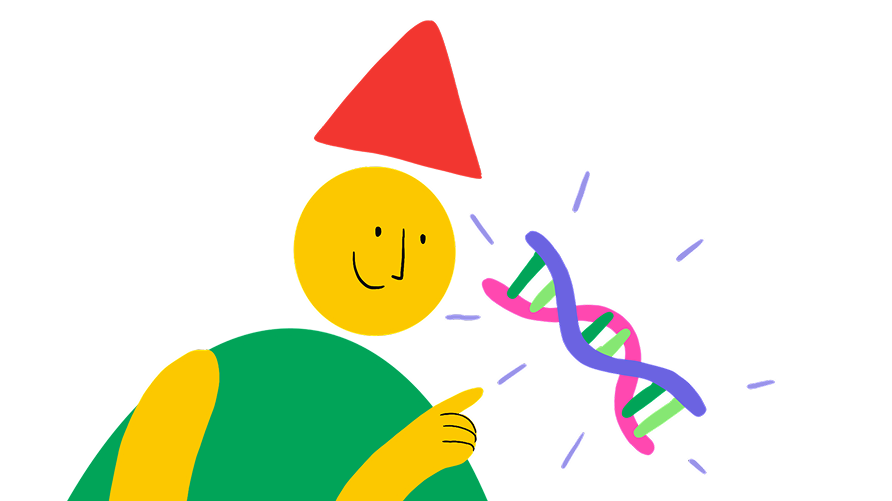
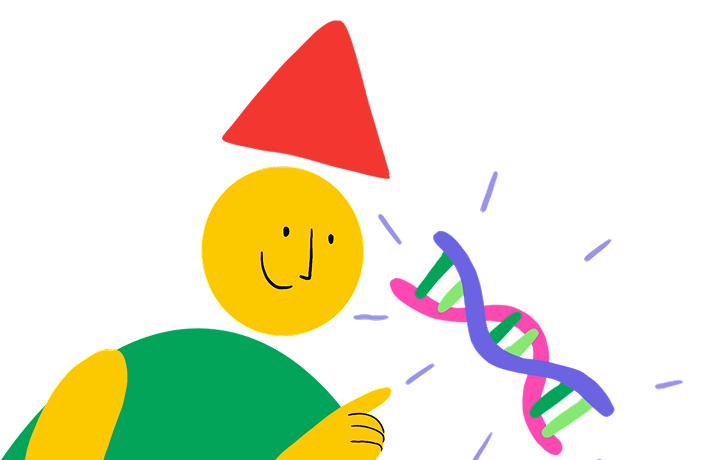
style: update various component styles for improved layout and responsiveness, including adjustments to padding, gaps, and image dimensions

diff --git a/src/components/SlideMenu/SlideMenu.tsx b/src/components/SlideMenu/SlideMenu.tsx
@@ -49,35 +49,43 @@ export default function SlideMenu() {
         {isOpen && (
           <div className={styles.content}>
             <div className={styles.mobileNavlinks}>
-              {ROUTES.map((route) => (
-                <div key={route.text} className={styles.mobileNavSection}>
-                  <Link
-                    href={route.path}
-                    className={`${styles.navlink} text-white pointer`}
-                    onClick={() => setIsOpen(false)}
-                  >
-                    {pathname.replace(`/${lng}`, "") === route.path ||
-                      pathname.replace(`${lng}`, "") === route.path}
-                    {t(route.text)}
-                  </Link>
+              {ROUTES.map((route) => {
+                const isActive = pathname.replace(`/${lng}`, "") === route.path;
+                return (
+                  <div key={route.text} className={styles.mobileNavSection}>
+                    <Link
+                      href={route.path}
+                      className={`text-white pointer ${isActive ? styles.activeMainLink : ""}`}
+                      onClick={() => setIsOpen(false)}
+                    >
+                      {t(route.text)}
+                    </Link>
                   {route.dropdown && (
                     <div className={styles.mobileSublinks}>
                       {route.dropdown
-                        .filter(item => item.text !== "pharmaceutical" && item.text !== "projects")
-                        .map((dropdownItem) => (
-                        <Link
-                          key={dropdownItem.text}
-                          href={dropdownItem.path}
-                          className={`${styles.sublink} text-white pointer`}
-                          onClick={() => setIsOpen(false)}
-                        >
-                          {t(dropdownItem.text)}
-                        </Link>
-                      ))}
+                        .filter(
+                          (item) =>
+                            item.text !== "pharmaceutical" &&
+                            item.text !== "projects"
+                        )
+                        .map((dropdownItem) => {
+                          const isSubActive = pathname.replace(`/${lng}`, "") === dropdownItem.path;
+                          return (
+                            <Link
+                              key={dropdownItem.text}
+                              href={dropdownItem.path}
+                              className={`${styles.sublink} text-white pointer ${isSubActive ? styles.activeLink : ""}`}
+                              onClick={() => setIsOpen(false)}
+                            >
+                              {t(dropdownItem.text)}
+                            </Link>
+                          );
+                        })}
                     </div>
                   )}
-                </div>
-              ))}
+                  </div>
+                );
+              })}
             </div>
             <div className={styles.footer}>
               <SocialLinks className="fill-white" />

diff --git a/src/components/PharmaceuticalService/styles.module.css b/src/components/PharmaceuticalService/styles.module.css
@@ -10,8 +10,8 @@
 .imgContainer {
   position: relative;
   align-self: flex-end;
-  width: 800px;
-  height: 460px;
+  width: 610px;
+  height: 400px;
   flex-shrink: 0;
 }
 
@@ -36,19 +36,22 @@
 
 @media (max-width: 1024px) {
   .wrapper {
-    --padding: 15vw;
+    padding: 0 0 0 15vw;
     min-height: 360px;
+    flex-direction: row-reverse;
   }
 
   .imgContainer {
-    width: 600px;
-    height: 345px;
+    width: 400px;
+    height: 260px;
+    transform: scaleX(-1);
   }
 }
 
 @media (max-width: 768px) {
   .wrapper {
-    --padding: 10vw;
+    padding: 0 0 0 10vw;
+    min-height: 320px;
   }
 
   .text {
@@ -56,35 +59,20 @@
   }
 
   .imgContainer {
-    width: 400px;
-    height: 225px;
+    position: relative;
+    width: 300px;
+    height: 196px;
   }
 }
 
 @media (max-width: 576px) {
   .wrapper {
-    --padding: 0;
-    padding: 5vw 0 0;
-    flex-direction: column-reverse;
-    justify-content: center;
-    align-items: center;
-    min-height: auto;
+    padding: 0 0 0 5vw;
+    min-height: 220px;
   }
 
   .imgContainer {
     width: 200px;
-    height: 112px;
-    align-self: center;
-  }
-
-  .illustration,
-  .social-media,
-  .branding {
-    align-items: center;
-  }
-
-  .animation .imgContainer,
-  .motion-graphics .imgContainer {
-    align-self: flex-end;
+    height: 130px;
   }
 }

diff --git a/src/components/Footer/styles.module.css b/src/components/Footer/styles.module.css
@@ -122,13 +122,13 @@
 
   .navigationRow {
     flex-direction: column;
-    gap: 32px;
+    gap: 16px;
     align-items: center;
   }
 
   .contactPage .navigationRow {
     flex-direction: column;
-    gap: 32px;
+    gap: 16px;
     align-items: center;
   }
 
@@ -150,5 +150,10 @@
 
   .topRowItem:last-child > button {
     margin-left: 0;
+  }
+
+  .logo {
+    width: 100px !important;
+    height: 50px !important;
   }
 }

diff --git a/src/components/ServiceTypeHeader/styles.module.css b/src/components/ServiceTypeHeader/styles.module.css
@@ -52,3 +52,23 @@
     min-height: 400px;
   }
 }
+
+@media (max-width: 576px) {
+  .imgContainer {
+    transform: translateX(150px);
+  }
+
+  .imgContainer img {
+    transform: scale(0.75) translateY(50px);
+  }
+}
+
+@media (max-width: 450px) {
+  .imgContainer {
+    transform: translateX(100px);
+  }
+
+  .imgContainer img {
+    object-position: bottom;
+  }
+}

diff --git a/src/components/Profile/styles.module.css b/src/components/Profile/styles.module.css
@@ -38,17 +38,19 @@
   .container {
     flex-direction: column;
     gap: 40px;
+    max-width: 280px;
+    margin: 0 auto;
   }
-  
+
   .inverted {
     flex-direction: column;
   }
-  
+
   .video {
     width: 280px;
     height: 280px;
   }
-  
+
   .description {
     padding: 0 20px;
   }

diff --git a/src/components/WhoWeAre/styles.module.css b/src/components/WhoWeAre/styles.module.css
@@ -33,9 +33,10 @@
 
 @media (max-width: 576px) {
   .container {
-    padding: 54px 0;
+    padding: 32px 0;
     background: url("../../../public/static/images/whoweare-background-vertical.png");
     background-color: var(--white);
+    gap: 20px;
   }
 
   .persons {

diff --git a/src/components/SlideMenu/styles.module.css b/src/components/SlideMenu/styles.module.css
@@ -130,6 +130,16 @@
 .sublink {
   font-size: 0.9rem;
   opacity: 0.8;
+  -webkit-tap-highlight-color: transparent;
+}
+
+.activeLink {
+  font-weight: bold;
+}
+
+.activeMainLink {
+  text-decoration: underline;
+  text-underline-offset: 4px;
 }
 
 .backdrop {

diff --git a/src/app/[lng]/us/page.module.css b/src/app/[lng]/us/page.module.css
@@ -64,4 +64,9 @@
     flex-direction: column;
     gap: 60px;
   }
+
+  .us {
+    gap: 24px;
+    padding: 24px 0;
+  }
 }
